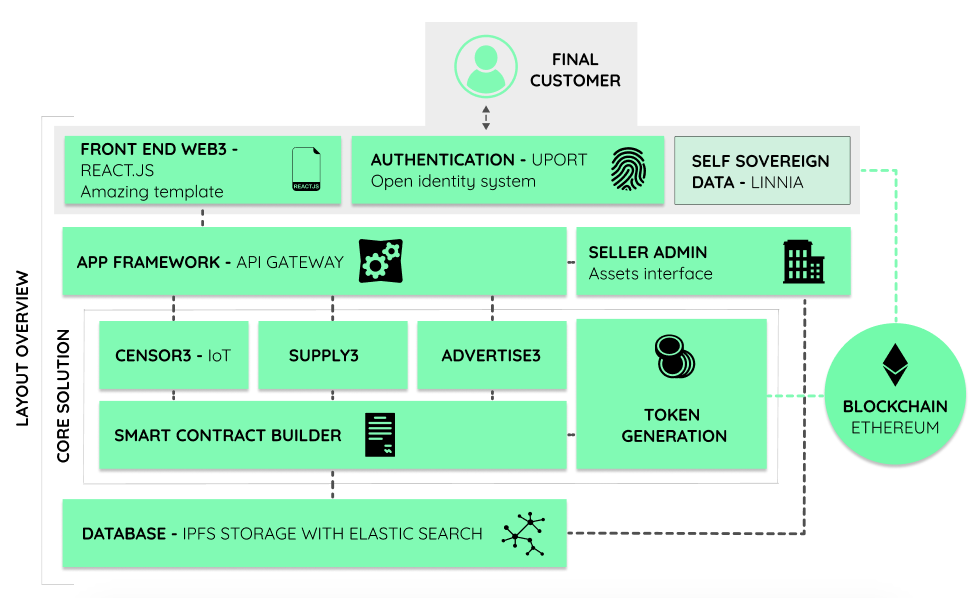
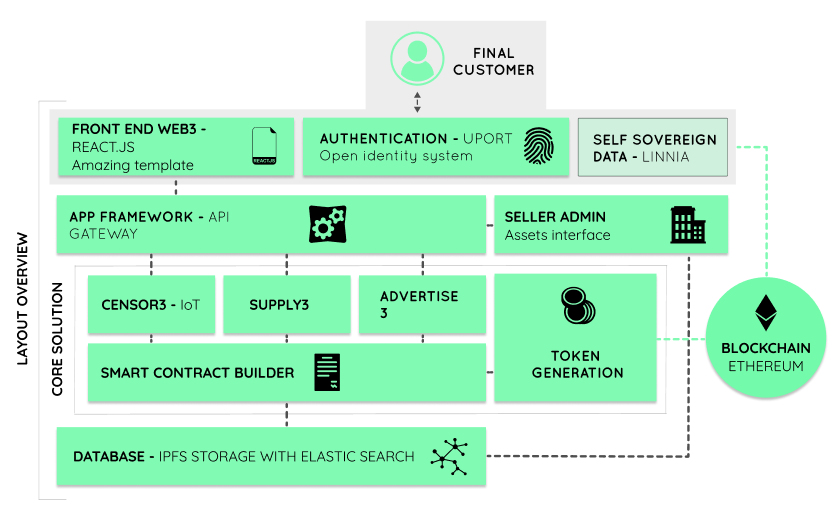
Fixed design on platform and add chevron

Changed region(s): [[0.0, 0.0592, 1.0, 0.9763]]

diff --git a/app/assets/stylesheets/pages/_platform.scss b/app/assets/stylesheets/pages/_platform.scss
@@ -11,5 +11,10 @@
   display: block;
   margin-left: auto;
   margin-right: auto;
-  width: 90%;
+  padding-bottom: 20px;
+  width: 78%;
+}
+.platformArrow {
+  margin: -15px auto 30px auto;
+  width: 5%;
 }

diff --git a/app/assets/stylesheets/pages/_keyConcepts.scss b/app/assets/stylesheets/pages/_keyConcepts.scss
@@ -11,7 +11,7 @@
 .keyConcepts {
   display: flex;
   justify-content: space-around;
-  padding-bottom: 100px;
+  padding-bottom: 50px;
   h2 {
     font-size: 18px;
     font-weight: bold;
